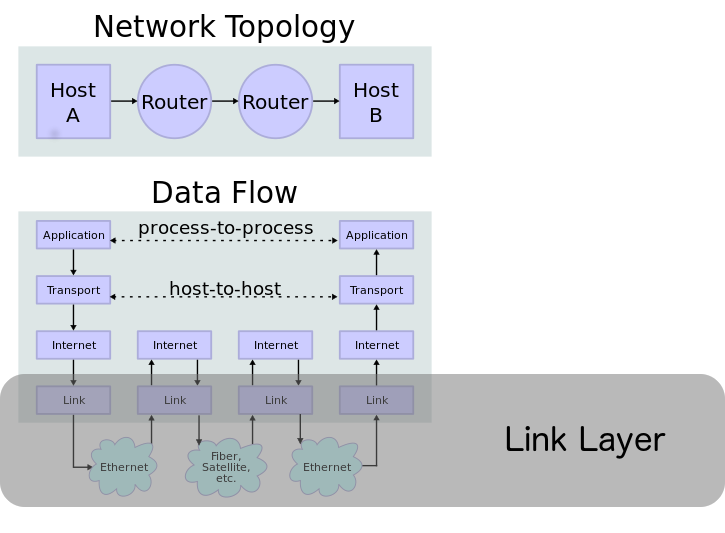
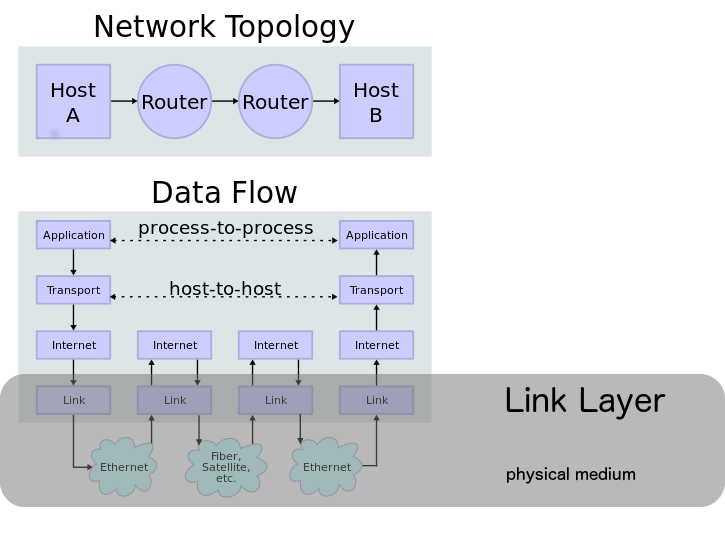
Link Layer update

Changed region(s): [[0.6979, 0.8105, 0.9103, 0.9006], [0.6979, 0.7205, 0.9103, 0.7805]]

diff --git a/index.html b/index.html
@@ -457,15 +457,9 @@ implemented on top of virtually any hardware networking technology.</p>
   </div>
   <div class="slide hidden" id="slide-7">
     <section class="slide-content"><h3 id="link-layer-examples">Link Layer: Examples</h3>
-<p>Not quite right, How to remove the host and leave the interface?</p>
-<ul>
-<li>LaptopWireless &larr; <em>WiFi</em> &rarr; Wireless Access Point</li>
-<li>Desktop &larr; <em>Ethernet</em> &rarr; Router</li>
-<li>Phone &larr; <em>4G</em> &rarr; Cell Tower</li>
-<li>Modem &larr; <em>Phone Line</em> &rarr; Modem</li>
-</ul>
+<p>Physical media: Ethernet, WiFi, 4G, Phone Line</p>
+<p>Link: Network Interface Controller (NIC), Modem, Phone/Cell Antenna?</p>
 <p>Media Access Control (MAC) Address</p>
-<p>Network Interface Controller (NIC)</p>
 </section>
   </div>
   <div class="slide hidden" id="slide-8">

diff --git a/index.md b/index.md
@@ -74,16 +74,11 @@ https://en.wikipedia.org/wiki/Internet_protocol_suite#Link_layer
 
 ### Link Layer: Examples
 
-Not quite right, How to remove the host and leave the interface?
+Physical media: Ethernet, WiFi, 4G, Phone Line
 
-- LaptopWireless &larr; <em>WiFi</em> &rarr; Wireless Access Point
-- Desktop &larr; <em>Ethernet</em> &rarr; Router
-- Phone &larr; <em>4G</em> &rarr; Cell Tower
-- Modem &larr; <em>Phone Line</em> &rarr; Modem
+Link: Network Interface Controller (NIC), Modem, Phone/Cell Antenna?
 
 Media Access Control (MAC) Address
-
-Network Interface Controller (NIC)
 
 
 
